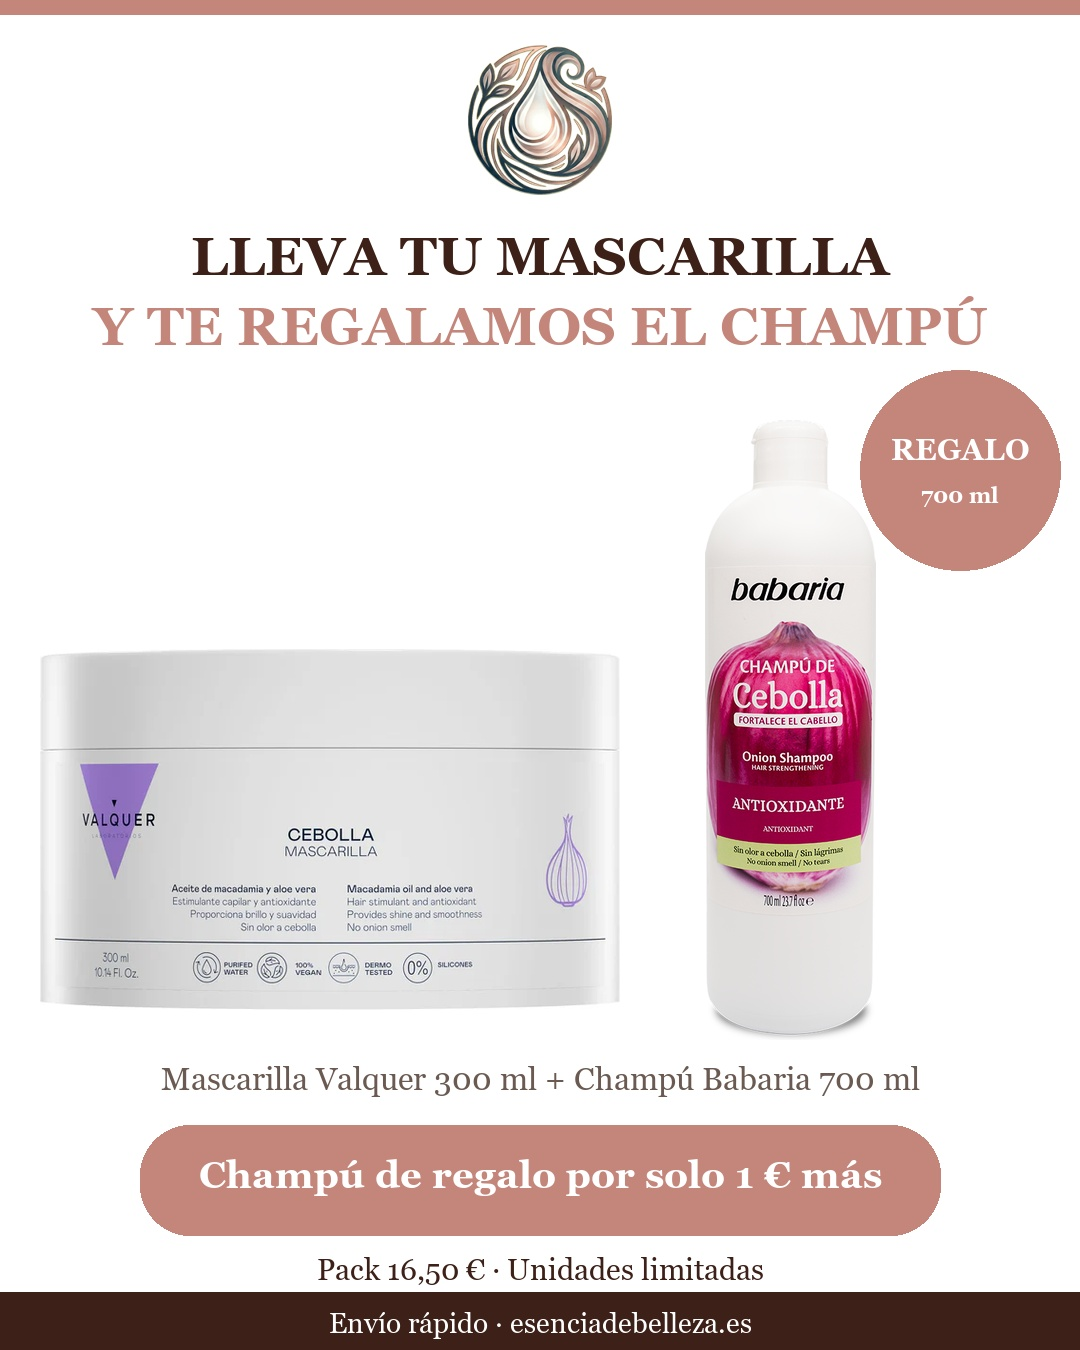
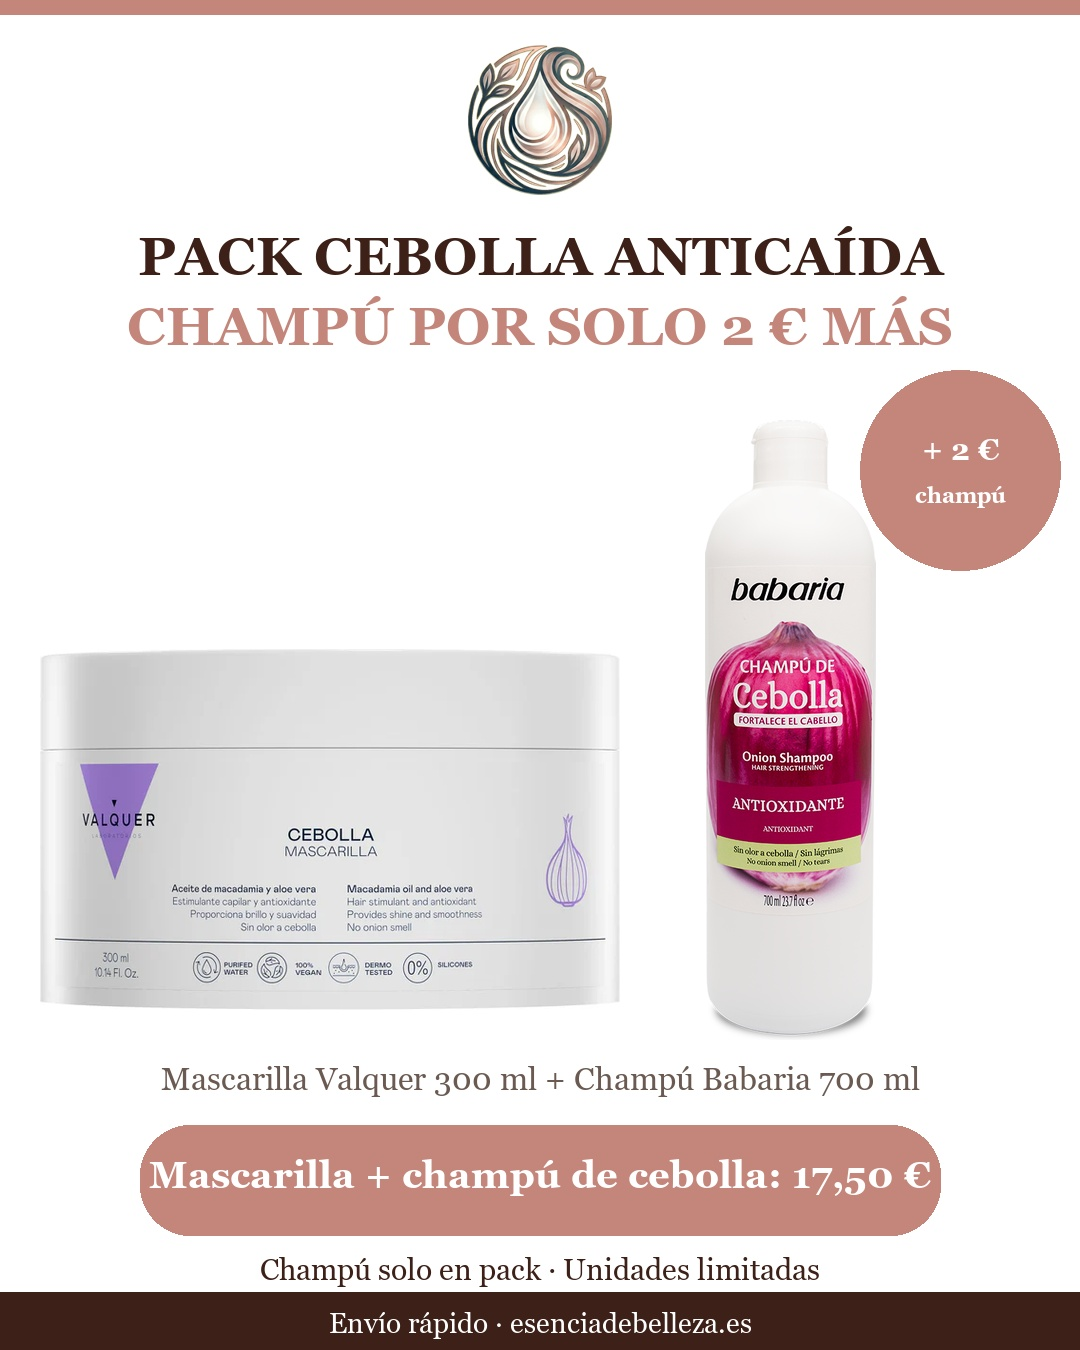
feat(packs): pack Cebolla a 17,50 EUR (mascarilla + champu Babaria 2 EUR)

diff --git a/app/(main)/packs/[slug]/page.tsx b/app/(main)/packs/[slug]/page.tsx
@@ -90,8 +90,8 @@ export default async function PackPage({ params }: { params: Promise<{ slug: str
             <ul className="space-y-3">
               {pack.items.map((item) => {
                 const padre = item.variacion?.producto_padre;
-                // Producto de regalo: solo se vende dentro del pack (precio simbólico, sin ficha pública)
-                const esRegalo = (item.variacion?.precio_b2c ?? 99) <= 1;
+                // Champú Babaria: solo se vende dentro del pack (sin ficha pública)
+                const esRegalo = (item.variacion?.precio_b2c ?? 99) <= 2;
                 return (
                   <li key={item.id} className="flex items-center gap-4 p-3 border border-neutral-100 bg-neutral-50">
                     {item.variacion?.imagen_url && (
@@ -106,7 +106,7 @@ export default async function PackPage({ params }: { params: Promise<{ slug: str
                       </p>
                       <p className="text-xs text-neutral-400">
                         {esRegalo
-                          ? `🎁 De regalo por solo ${item.variacion?.precio_b2c.toFixed(0)} € más · ×${item.cantidad}`
+                          ? `Incluido en el pack por solo ${item.variacion?.precio_b2c.toFixed(0)} € · ×${item.cantidad}`
                           : `${item.variacion?.precio_b2c.toFixed(2)} € · ×${item.cantidad}`}
                         {padre && !esRegalo && (
                           <Link

diff --git a/promos/pack-cebolla/make_ad_pack.py b/promos/pack-cebolla/make_ad_pack.py
@@ -52,7 +52,7 @@ ficha = Image.new("RGB", (S, S), BLANCO)
 df = ImageDraw.Draw(ficha)
 pegar(ficha, mascarilla, 330, 800, 420, 560)
 pegar(ficha, champu, 745, 860, 640, 300)
-sello(df, 160, 160, 120, "REGALO", "champ\u00fa 700 ml")
+sello(df, 160, 160, 120, "SOLO 2 \u20ac", "champ\u00fa 700 ml")
 centrado(df, S, 890, "Mascarilla Valquer 300 ml + Champ\u00fa Babaria 700 ml", fuente("georgia.ttf", 34), GRIS)
 ficha.save(BASE / "pack_cebolla_ficha.jpg", quality=92)
 
@@ -70,17 +70,17 @@ logo.thumbnail((150, 150))
 img.paste(logo, ((W - logo.width) // 2, 45), logo)
 
 gancho = fuente("georgiab.ttf", 54)
-centrado(d, W, 225, "LLEVA TU MASCARILLA", gancho, MARRON)
-centrado(d, W, 295, "Y TE REGALAMOS EL CHAMP\u00da", gancho, ROSA)
+centrado(d, W, 225, "PACK CEBOLLA ANTICA\u00cdDA", gancho, MARRON)
+centrado(d, W, 295, "CHAMP\u00da POR SOLO 2 \u20ac M\u00c1S", gancho, ROSA)
 
 pegar(img, mascarilla, 330, 1010, 420, 580)
 pegar(img, champu, 790, 1040, 620, 330)
-sello(d, 960, 470, 100, "REGALO", "700 ml")
+sello(d, 960, 470, 100, "+ 2 \u20ac", "champ\u00fa")
 
 centrado(d, W, 1060, "Mascarilla Valquer 300 ml + Champ\u00fa Babaria 700 ml", fuente("georgia.ttf", 32), GRIS)
 d.rounded_rectangle([140, 1125, 940, 1235], radius=50, fill=ROSA)
-centrado(d, W, 1153, "Champ\u00fa de regalo por solo 1 \u20ac m\u00e1s", fuente("georgiab.ttf", 38), BLANCO)
-centrado(d, W, 1252, "Pack 16,50 \u20ac \u00b7 Unidades limitadas", fuente("georgia.ttf", 30), MARRON)
+centrado(d, W, 1153, "Mascarilla + champ\u00fa de cebolla: 17,50 \u20ac", fuente("georgiab.ttf", 38), BLANCO)
+centrado(d, W, 1252, "Champ\u00fa solo en pack \u00b7 Unidades limitadas", fuente("georgia.ttf", 30), MARRON)
 
 d.rectangle([0, 1292, W, H], fill=MARRON)
 centrado(d, W, 1307, "Env\u00edo r\u00e1pido \u00b7 esenciadebelleza.es", fuente("georgia.ttf", 28), BLANCO)
